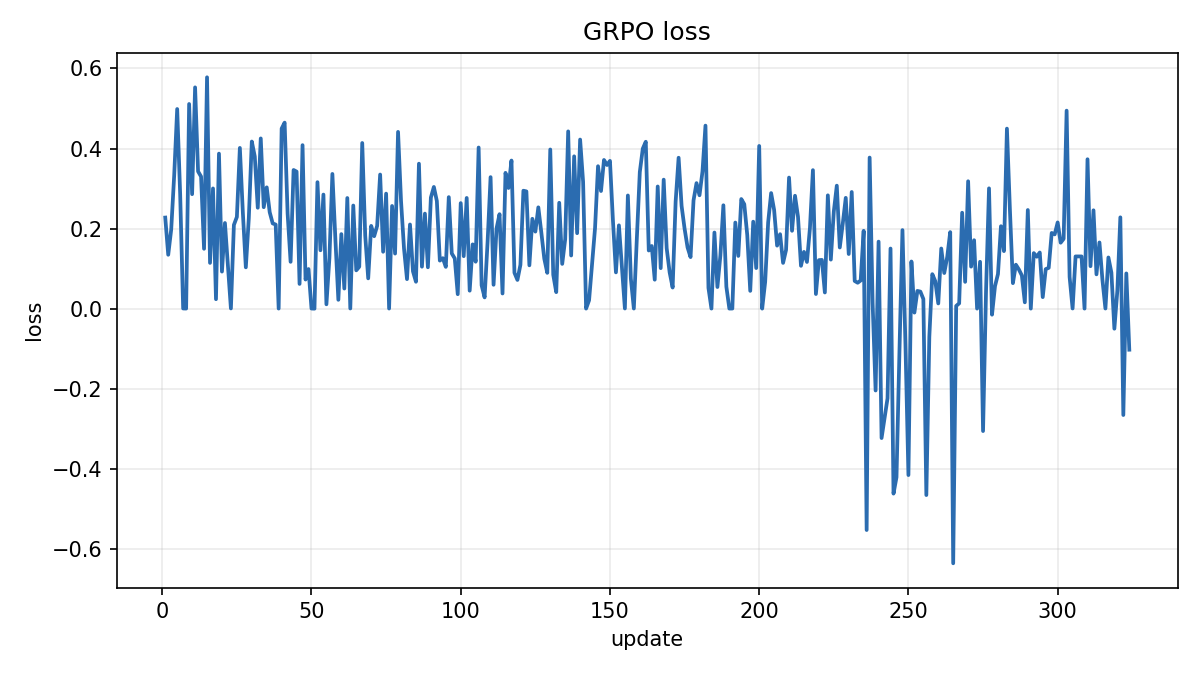
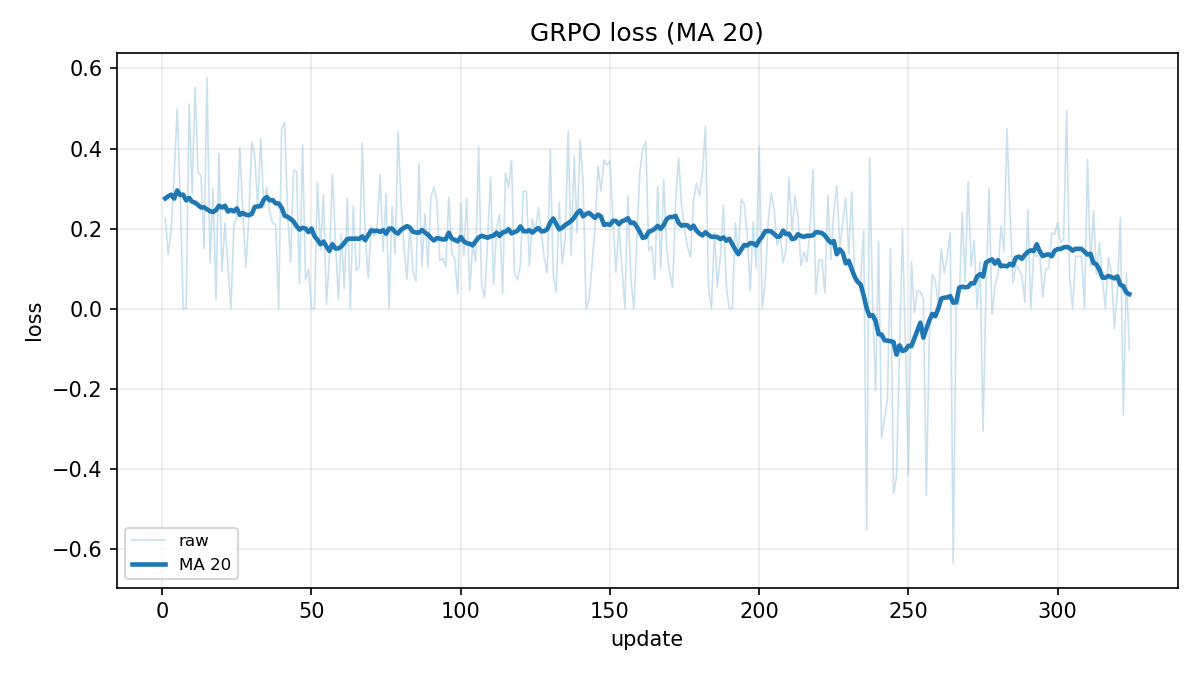
docs(grpo): 平滑最终 GRPO 曲线

Changed region(s): [[0.1233, 0.1244, 0.9558, 0.84], [0.0925, 0.7778, 0.2158, 0.8711], [0.4317, 0.0311, 0.6475, 0.0622]]

diff --git a/reports/GRPO/UNIFIED_FINAL.md b/reports/GRPO/UNIFIED_FINAL.md
@@ -126,7 +126,8 @@ last 20 updates:  60.0%
 
 ## 4. 曲线
 
-完整 324 updates 的 reward、reward range、KL、loss 和 success 曲线：
+完整 324 updates 的 reward、reward range、KL、loss 和 success 曲线。
+浅色为原始逐 update 数据，深色为窗口 20 的 centered moving average：
 
 ![GRPO final reward](../curves/grpo/grpo_unified_final_reward.png)
 

diff --git a/reports/INDEX.md b/reports/INDEX.md
@@ -125,7 +125,7 @@ total: 324
 curves/
 ├── maps/       数据集地图样例
 ├── sft/        L0–L4 SFT loss
-├── grpo/       GRPO reward / KL / loss / success（chunk1 + final）
+├── grpo/       GRPO reward / KL / loss / success（chunk1 + final, raw + MA20）
 └── rollouts/   GRPO chunk1 推理轨迹和 GIF
 ```
 
